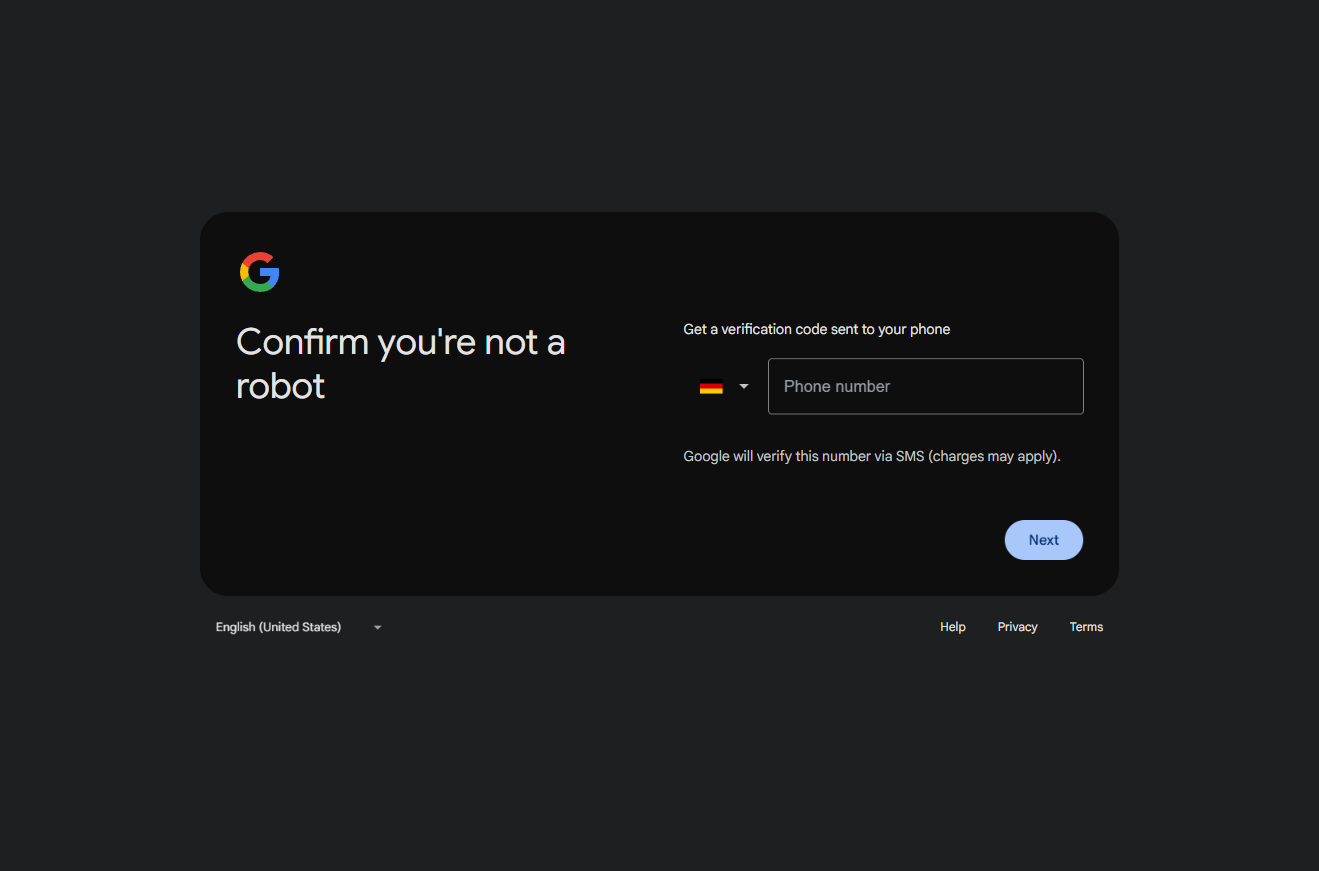
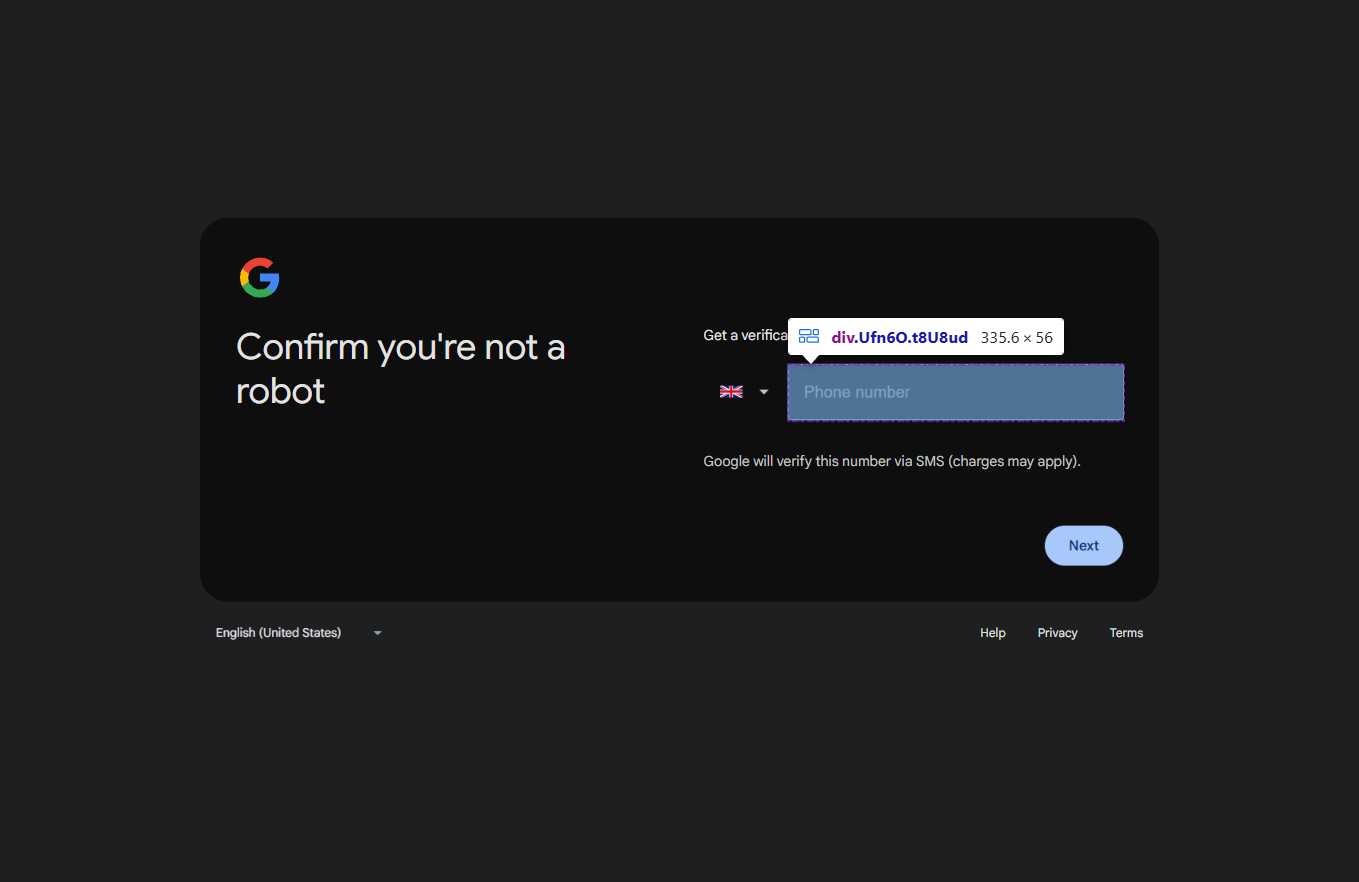
initial commit

diff --git a/lib/gmailAutomation.js b/lib/gmailAutomation.js
@@ -2,6 +2,7 @@
  * Comprehensive Gmail automation module combining all steps
  */
 const { pageWaitForTimeout, getRandomDelay } = require('./utils.js');
+const { getNumber, checkSMS, waitForSMS, cancelNumber } = require('./sms.js');
 
 // If humanBehavior.js doesn't exist yet, we'll need these functions
 /**
@@ -10,7 +11,7 @@ const { pageWaitForTimeout, getRandomDelay } = require('./utils.js');
  */
 async function performRandomMouseMovements(page) {
   const viewportSize = await page.viewport();
-  const movementCount = 3 + Math.floor(Math.random() * 5); // 3-7 movements
+  const movementCount = 3 + Math.floor(Math.random() * 5);`` // 3-7 movements
   
   for (let i = 0; i < movementCount; i++) {
     const x = Math.floor(Math.random() * viewportSize.width);
@@ -403,53 +404,147 @@ async function handlePhoneVerification(page, accountData) {
   try {
     console.log("Handling phone verification...");
     
+    const phoneInput = await page.waitForSelector('input[type="tel"]');
     // Check if we're on the phone verification page
-    const phoneInput = await page.$('input[id="phoneNumberId"]') || await page.$('input[type="tel"]');
+    
 
     if (!phoneInput) {
       console.log("Phone verification step not found, skipping...");
       return;
     }
     
+    // Get a phone number from the SMS service
+    let phoneDetails;
+    try {
+      console.log("Getting phone number from SMS service...");
+      phoneDetails = await getNumber(); // Assuming service ID 1 for Gmail and UK country
+      console.log(`Received phone number: ${phoneDetails.number}`);
+    } catch (error) {
+      console.error("Failed to get phone number:", error.message);
+      return;
+    }
+    
     // Do some random mouse movements
     await performRandomMouseMovements(page);
+
+    // Clear any existing text in the phone field with Ctrl+Backspace
+    await clickHumanLike(page, 'input[type="tel"]');
+    await pageWaitForTimeout(300 + Math.floor(Math.random() * 500));
+    await typeHumanLike(page, 'input[type="tel"]', '+44');
+
+    // await page.keyboard.down('Control');
+    await page.keyboard.press('Backspace');
+    await page.keyboard.press('Backspace');
+    await page.keyboard.press('Backspace');
+    await page.keyboard.press('Backspace');
+    // await page.keyboard.up('Control');
+    await pageWaitForTimeout(400 + Math.floor(Math.random() * 600));
     
+
+
+    /*@ MOBILE VERIFICATION STARTS */
     // Type the phone number with human-like behavior
-    await typeHumanLike(page, 'input[type="tel"]', accountData.phoneNumber);
+
+    await typeHumanLike(page, 'input[type="tel"]', phoneDetails.number);
     await pageWaitForTimeout(700 + Math.floor(Math.random() * 1000));
     
     // Click next button
-    const nextButton = await page.$('#nextButton') || await page.$('button[type="button"]');
+    const nextButton = await page.$('button[type="button"]');
     if (nextButton) {
       await clickHumanLike(page, nextButton);
     } else {
       console.error("Next button not found after entering phone number");
+      await cancelNumber(phoneDetails.id); // Cancel the number request if we can't proceed
       return;
     }
     
     console.log("Waiting for SMS verification code...");
     
     // Wait for verification code input to appear
-    await page.waitForSelector('input[name="code"]', { visible: true, timeout: 120000 });
+    await page.waitForSelector('input[type="tel"]', { visible: true, timeout: 120000 });
     
-    // Get verification code from service or user
-    // Implementation depends on your SMS service
-    let verificationCode;
-    if (typeof accountData.getVerificationCode === 'function') {
-      // If there's a function to get the code automatically
-      verificationCode = await accountData.getVerificationCode(accountData.phoneNumber);
-    } else {
-      // Fallback to fixed code for testing
-      verificationCode = "123456";
-      console.warn("Using fixed verification code: 123456. Replace with actual SMS verification logic.");
+    // Wait for the SMS to arrive (up to 2 minutes)
+    const verificationCode = await waitForSMS(phoneDetails.id, 120000, 5000);
+    console.log("verification code " , verificationCode);
+    
+    if (!verificationCode) {
+      console.error("Failed to receive SMS verification code within the timeout period");
+      await cancelNumber(phoneDetails.id);
+      return;
     }
     
+    console.log(`Received verification code: ${verificationCode}`);
+    
     // Type verification code with human-like behavior
-    await typeHumanLike(page, 'input[name="code"]', verificationCode);
+    await typeHumanLike(page, 'input[type="tel"]', verificationCode);
     await pageWaitForTimeout(500 + Math.floor(Math.random() * 800));
     
+
+    // Look for a skip button with various selectors
+    const skipButton = await page.$('button[type="button"]::-p-text(skip)') || 
+               await page.$('button[type="button"]::-p-text(Skip)') ||
+               await page.$('button:contains("skip")') ||
+               await page.$('button:contains("Skip")');
+
+    if (skipButton) {
+      console.log("Skip button found, clicking it...");
+      // Add random delay before clicking
+      await pageWaitForTimeout(500 + Math.floor(Math.random() * 800));
+      await clickHumanLike(page, skipButton);
+      
+      // Wait briefly after clicking skip
+      await pageWaitForTimeout(1000 + Math.floor(Math.random() * 1500));
+      
+      console.log("Skipped verification code entry");
+     
+    }
+
+    await page.waitForSelector("button[type='button']");
+      await page.click("button[type='button']");
+
+      await pageWaitForTimeout(1000);
+
+      // Wait for 'I agree' button and click with human-like behavior
+      console.log("Looking for 'I agree' button...");
+      try {
+        // Wait for the button to be visible
+        await page.waitForFunction(() => {
+          const buttons = Array.from(document.querySelectorAll('button[type="button"]'));
+          return buttons.some(button => 
+            button.innerText.toLowerCase().includes('i agree') || 
+            button.innerText.toLowerCase().includes('agree')
+          );
+        }, { timeout: 10000 });
+        
+        // Find the button
+        const agreeButton = await page.evaluateHandle(() => {
+          const buttons = Array.from(document.querySelectorAll('button[type="button"]'));
+          return buttons.find(button => 
+            button.innerText.toLowerCase().includes('i agree') || 
+            button.innerText.toLowerCase().includes('agree')
+          );
+        });
+        
+        if (agreeButton) {
+          console.log("'I agree' button found, clicking...");
+          await performRandomMouseMovements(page);
+          await pageWaitForTimeout(700 + Math.floor(Math.random() * 1000));
+          await clickHumanLike(page, agreeButton);
+          
+          console.log("Clicked 'I agree' button");
+          await pageWaitForTimeout(1500 + Math.floor(Math.random() * 2000));
+        } else {
+          console.log("'I agree' button not found");
+        }
+      } catch (error) {
+        console.error("Error waiting for or clicking 'I agree' button:", error.message);
+      }
+
+
+
+    console.log("No skip button found, proceeding with verification code entry");
     // Click verify button
-    const verifyButton = await page.$('#nextButton') || await page.$('button[type="button"]');
+    const verifyButton =await page.$('button[type="button"]');
     if (verifyButton) {
       await clickHumanLike(page, verifyButton);
     } else {
@@ -588,9 +683,8 @@ async function executeGmailSignup(page, accountData) {
     await fillPassword(page, accountData);
     
     // Handle optional verification steps if they appear
-    if (accountData.phoneNumber) {
       await handlePhoneVerification(page, accountData);
-    }
+    
     
     if (accountData.recoveryEmail) {
       await addRecoveryEmail(page, accountData);

diff --git a/lib/sms.js b/lib/sms.js
@@ -1,0 +1,180 @@
+const axios = require('axios');
+const { configDotenv } = require('dotenv');
+configDotenv();
+/**
+ * SMS handling module using Juicy SMS API
+ */
+
+
+// Configure API settings
+
+/**
+ * Get a phone number for receiving SMS
+ * @param {string} country - Country code (UK, NL, USA)
+ * @param {string|number} serviceId - Service ID for the SMS service
+ * @returns {Promise<Object>} Object containing id and number
+ */
+async function getNumber(country = 'UK', serviceId = '1') {
+    try {
+        const response = await axios.get(`https://juicysms.com/api/makeorder`, {
+            params: {
+                key: process.env.JUICY_SMS_API_KEY,
+                serviceId,
+                country,
+            },
+        });
+        
+        const responseData = response.data;
+        
+        // Handle error responses
+        if (responseData === 'NO_PHONE_AVAILABLE') {
+            throw new Error('No phone number available for this service');
+        } else if (responseData === 'NO_BALANCE') {
+            throw new Error('Insufficient account balance');
+        } else if (responseData.startsWith('ORDER_ALREADY_OPEN_')) {
+            const orderId = responseData.replace('ORDER_ALREADY_OPEN_', '');
+            throw new Error(`Order already open with ID: ${orderId}`);
+        }
+        
+        // Handle success response: ORDER_ID_{ORDER_ID}_NUMBER_{PHONE_NUMBER}
+        if (responseData.startsWith('ORDER_ID_')) {
+            const parts = responseData.split('_');
+            const id = parts[2];
+            const number = parts[4];
+            
+            return {
+                id,
+                number,
+            };
+        }
+        
+        throw new Error(`Unexpected API response: ${responseData}`);
+    } catch (error) {
+        console.error('Error getting phone number:', error.message);
+        throw error;
+    }
+}
+
+/**
+ * Check for SMS messages for a specific number
+ * @param {string} id - The ID of the number request
+ * @returns {Promise<Array>} Array of messages
+ */
+async function checkSMS(id) {
+    try {
+        const response = await axios.get(`https://juicysms.com/api/getsms`, {
+            params: {
+                key: process.env.JUICY_SMS_API_KEY,
+                orderId: id,
+            },
+        });
+        
+        const responseData = response.data;
+        
+        if (responseData === 'ORDER_EXPIRED') {
+            throw new Error('The order has been canceled or has expired');
+        } else if (responseData === 'WAITING') {
+            return []; // No messages yet
+        } else if (responseData.startsWith('SUCCESS_')) {
+            const smsContent = responseData.replace('SUCCESS_', '');
+            
+            console.log("Response " , responseData);
+            
+            // Extract Google OTP code (G-XXXXX format)
+            const otpMatch = smsContent.match(/\d{6}/);
+            
+            if (otpMatch) {
+                // Return just the Google code
+                return [{
+                    text: otpMatch[0],
+                    receivedAt: new Date().toISOString()
+                }];
+            }
+            
+            return [{
+                text: smsContent,
+                receivedAt: new Date().toISOString()
+            }];
+        }
+        
+        throw new Error(`Unexpected API response: ${responseData}`);
+    } catch (error) {
+        console.error('Error checking SMS messages:', error.message);
+        throw error;
+    }
+}
+
+/**
+ * Wait for an SMS to arrive, polling a fixed number of times
+ * @param {string} id - The ID of the number request
+ * @param {number} maxAttempts - Maximum number of polling attempts
+ * @param {number} interval - Check interval in milliseconds
+ * @returns {Promise<string|null>} The SMS message text or null if no message after all attempts
+ */
+async function waitForSMS(id, maxAttempts = 7, interval = 5000) {
+    for (let attempt = 1; attempt <= maxAttempts; attempt++) {
+        const messages = await checkSMS(id);
+        
+        if (messages.length > 0) {
+            console.log("Message as : " , messages);
+            
+            // Return the first message's text, which is what checkSMS returns
+            return messages[0].text;
+        }
+        
+        // Don't wait after the last attempt
+        if (attempt < maxAttempts) {
+            // Wait for the interval before checking again
+            await new Promise(resolve => setTimeout(resolve, interval));
+        }
+    }
+    
+    return null; // All attempts exhausted, no SMS received
+}
+
+/**
+ * Cancel a number request (to avoid additional charges)
+ * @param {string} id - The ID of the number request
+ * @returns {Promise<boolean>} Success status
+ */
+async function cancelNumber(id) {
+    try {
+        const response = await axios.get(`https://juicysms.com/api/cancelorder`, {
+            params: {
+                key: process.env.JUICY_SMS_API_KEY,
+                orderId: id,
+            },
+        });
+        
+        const responseData = response.data;
+        
+        if (responseData === 'ORDER_CANCELED') {
+            return true;
+        } else if (responseData === 'ORDER_ALREADY_EXPIRED') {
+            console.log('The order has already expired');
+            return false;
+        } else if (responseData === 'ORDER_ALREADY_COMPLETED') {
+            console.log('The order has already been completed');
+            return false;
+        }
+        
+        throw new Error(`Unexpected API response: ${responseData}`);
+    } catch (error) {
+        console.error('Error canceling number:', error.message);
+        return false;
+    }
+}
+
+async function main(){
+    const ans = await cancelNumber(5824699);
+    console.log(ans);
+}
+
+main();
+
+module.exports = {
+    getNumber,
+    checkSMS,
+    waitForSMS,
+    cancelNumber,
+};

diff --git a/lib/automation/steps/phoneVerification.js b/lib/automation/steps/phoneVerification.js
@@ -21,7 +21,7 @@ async function handlePhoneVerification(page, accountData) {
     await performRandomMouseMovements(page);
     
     // Type the phone number with human-like behavior
-    await typeHumanLike(page, 'input[id="phoneNumberId"]', accountData.phoneNumber);
+    await typeHumanLike(page, 'input[id="phoneNumberId"]');
     await pageWaitForTimeout(700 + Math.floor(Math.random() * 1000));
     
     // Click next button
